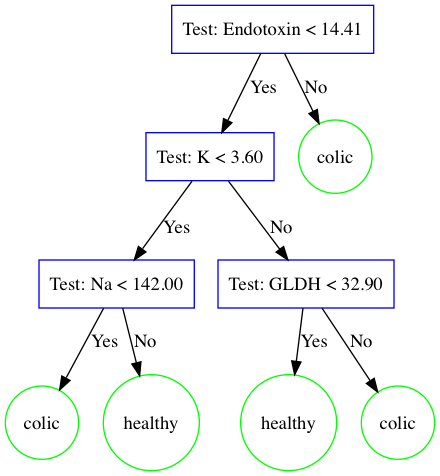
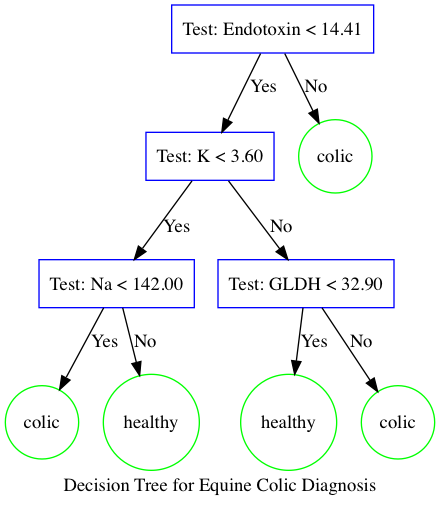
Added output predictions

diff --git a/decision_tree.py b/decision_tree.py
@@ -55,6 +55,7 @@ class DecisionTree(object):
     def plot(self):
         tree_plt = pgv.AGraph(directed=True)
         tree_plt.graph_attr["ordering"] = "out"
+        tree_plt.graph_attr['label'] = 'Decision Tree for Equine Colic Diagnosis'
         DecisionTree.node_counter = 0
         self._plot(self.__root, tree_plt)
         tree_plt.layout()
